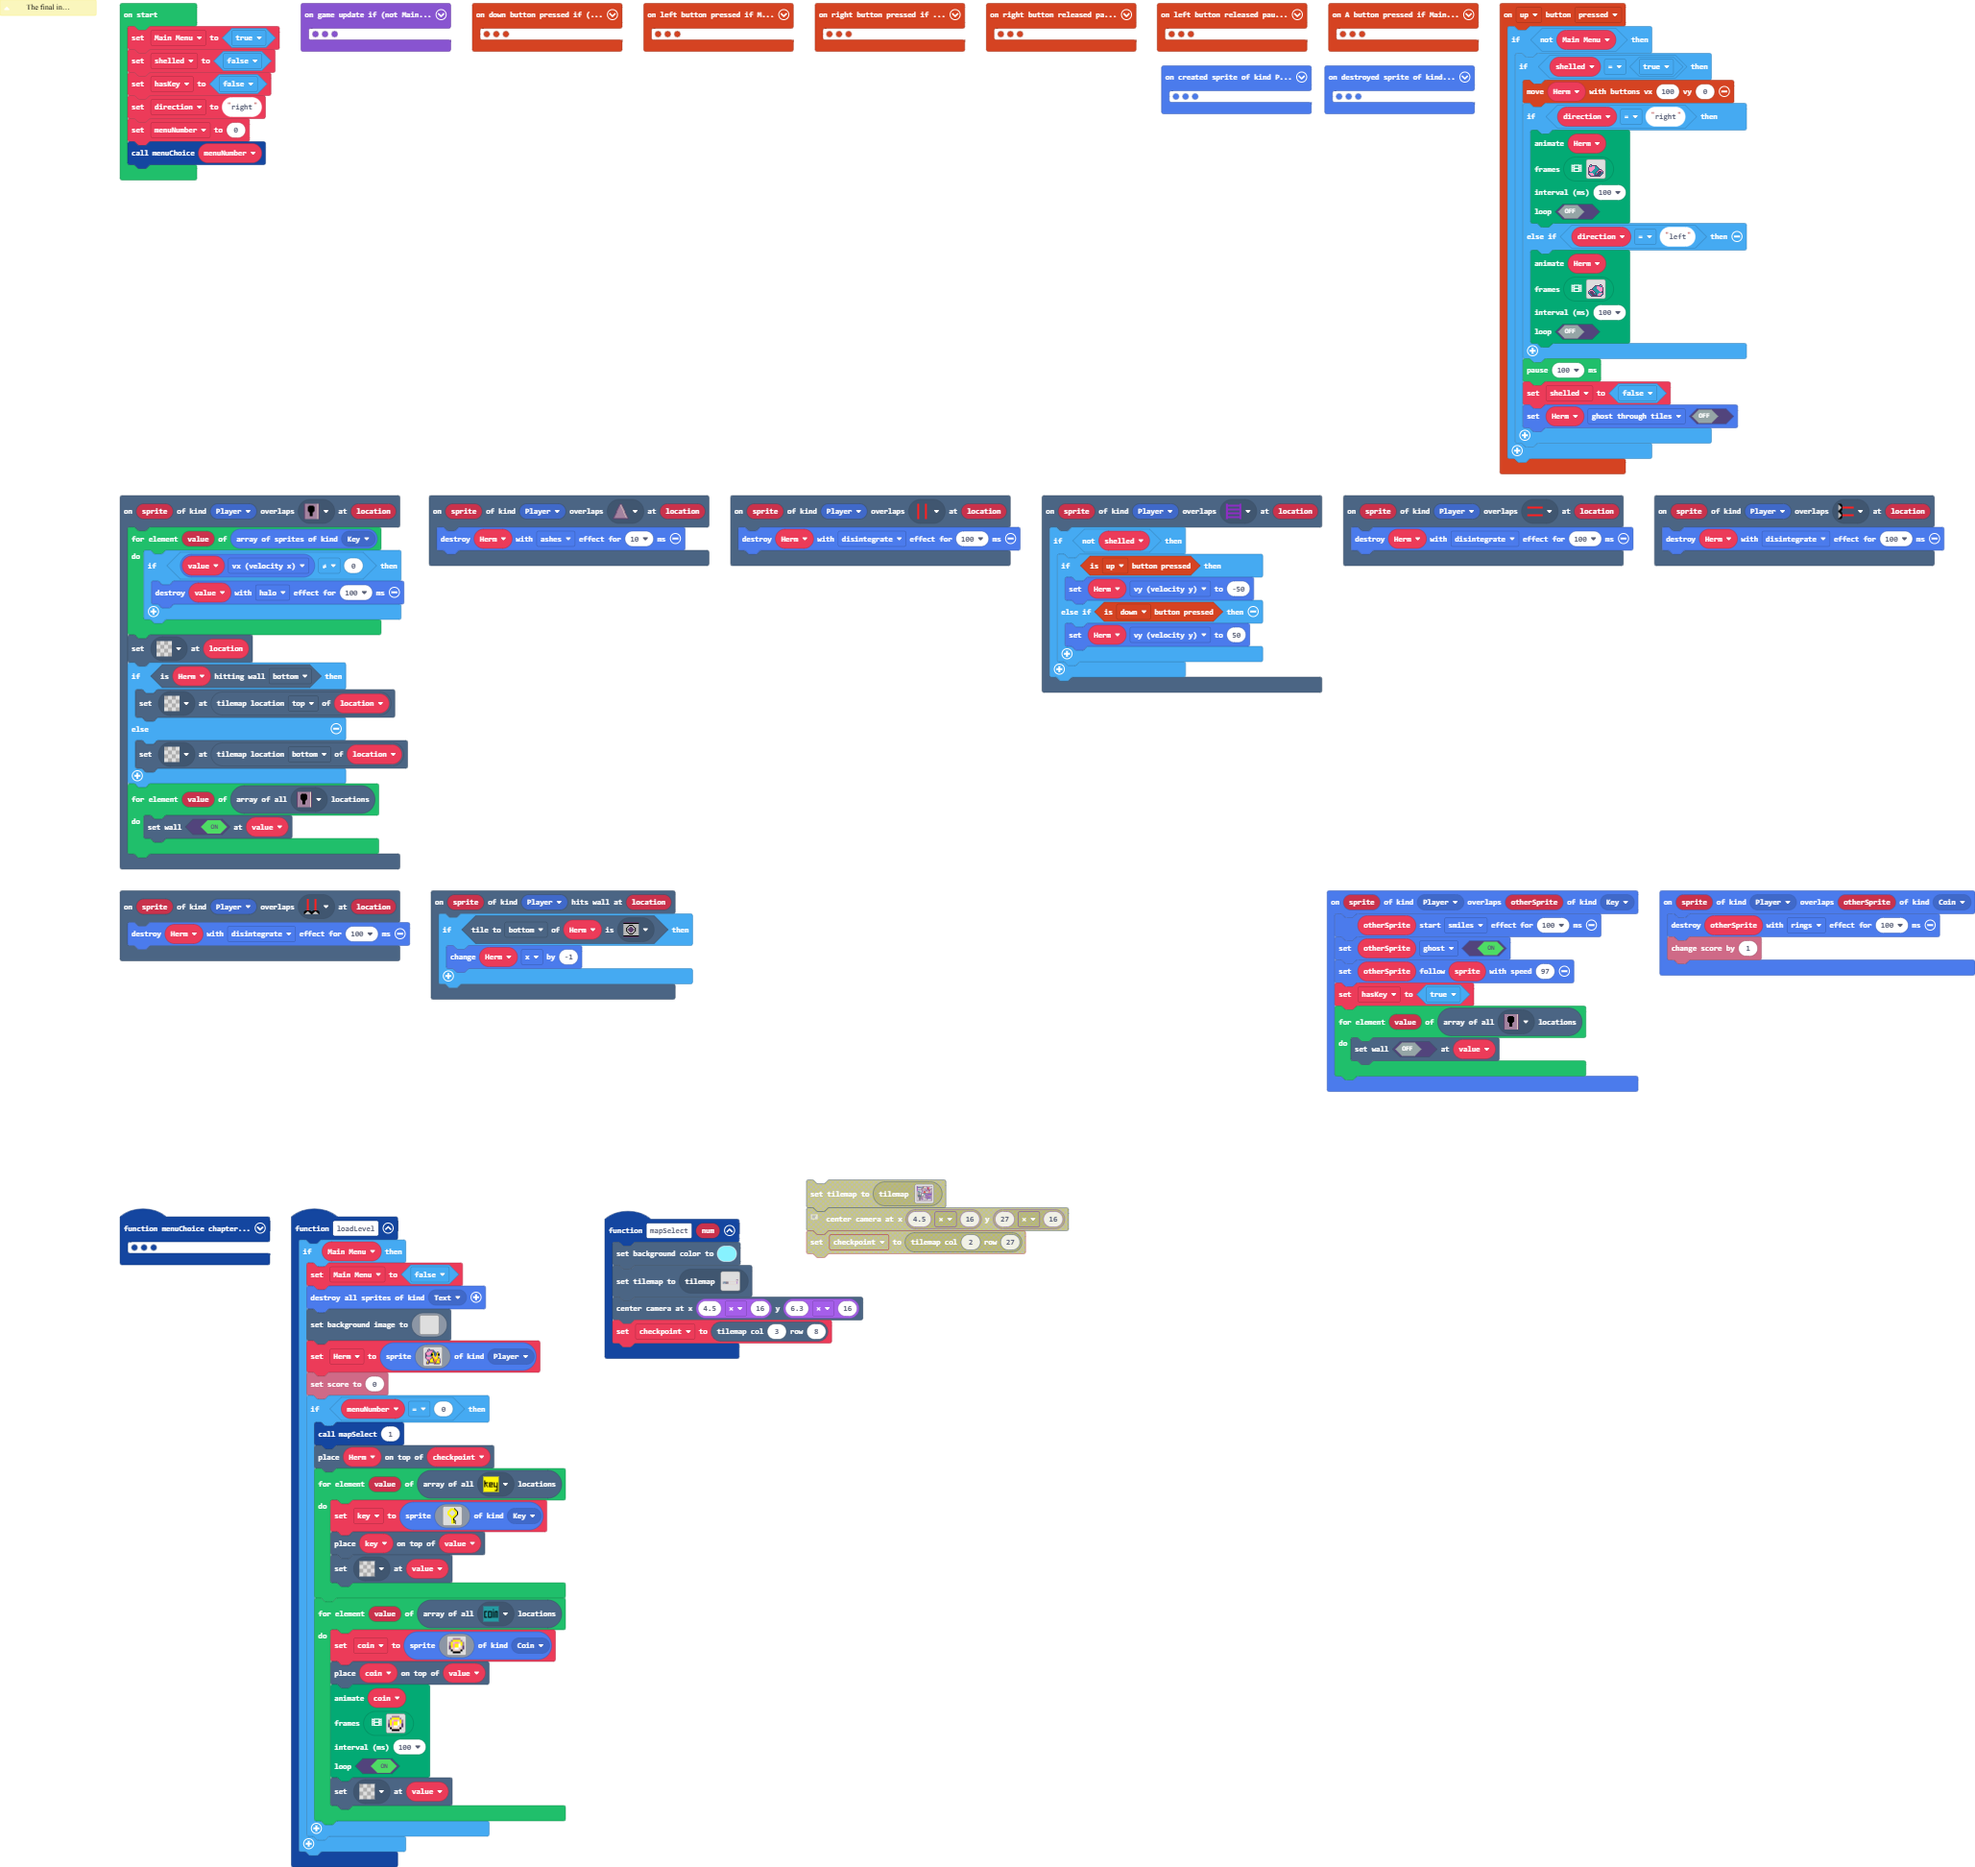
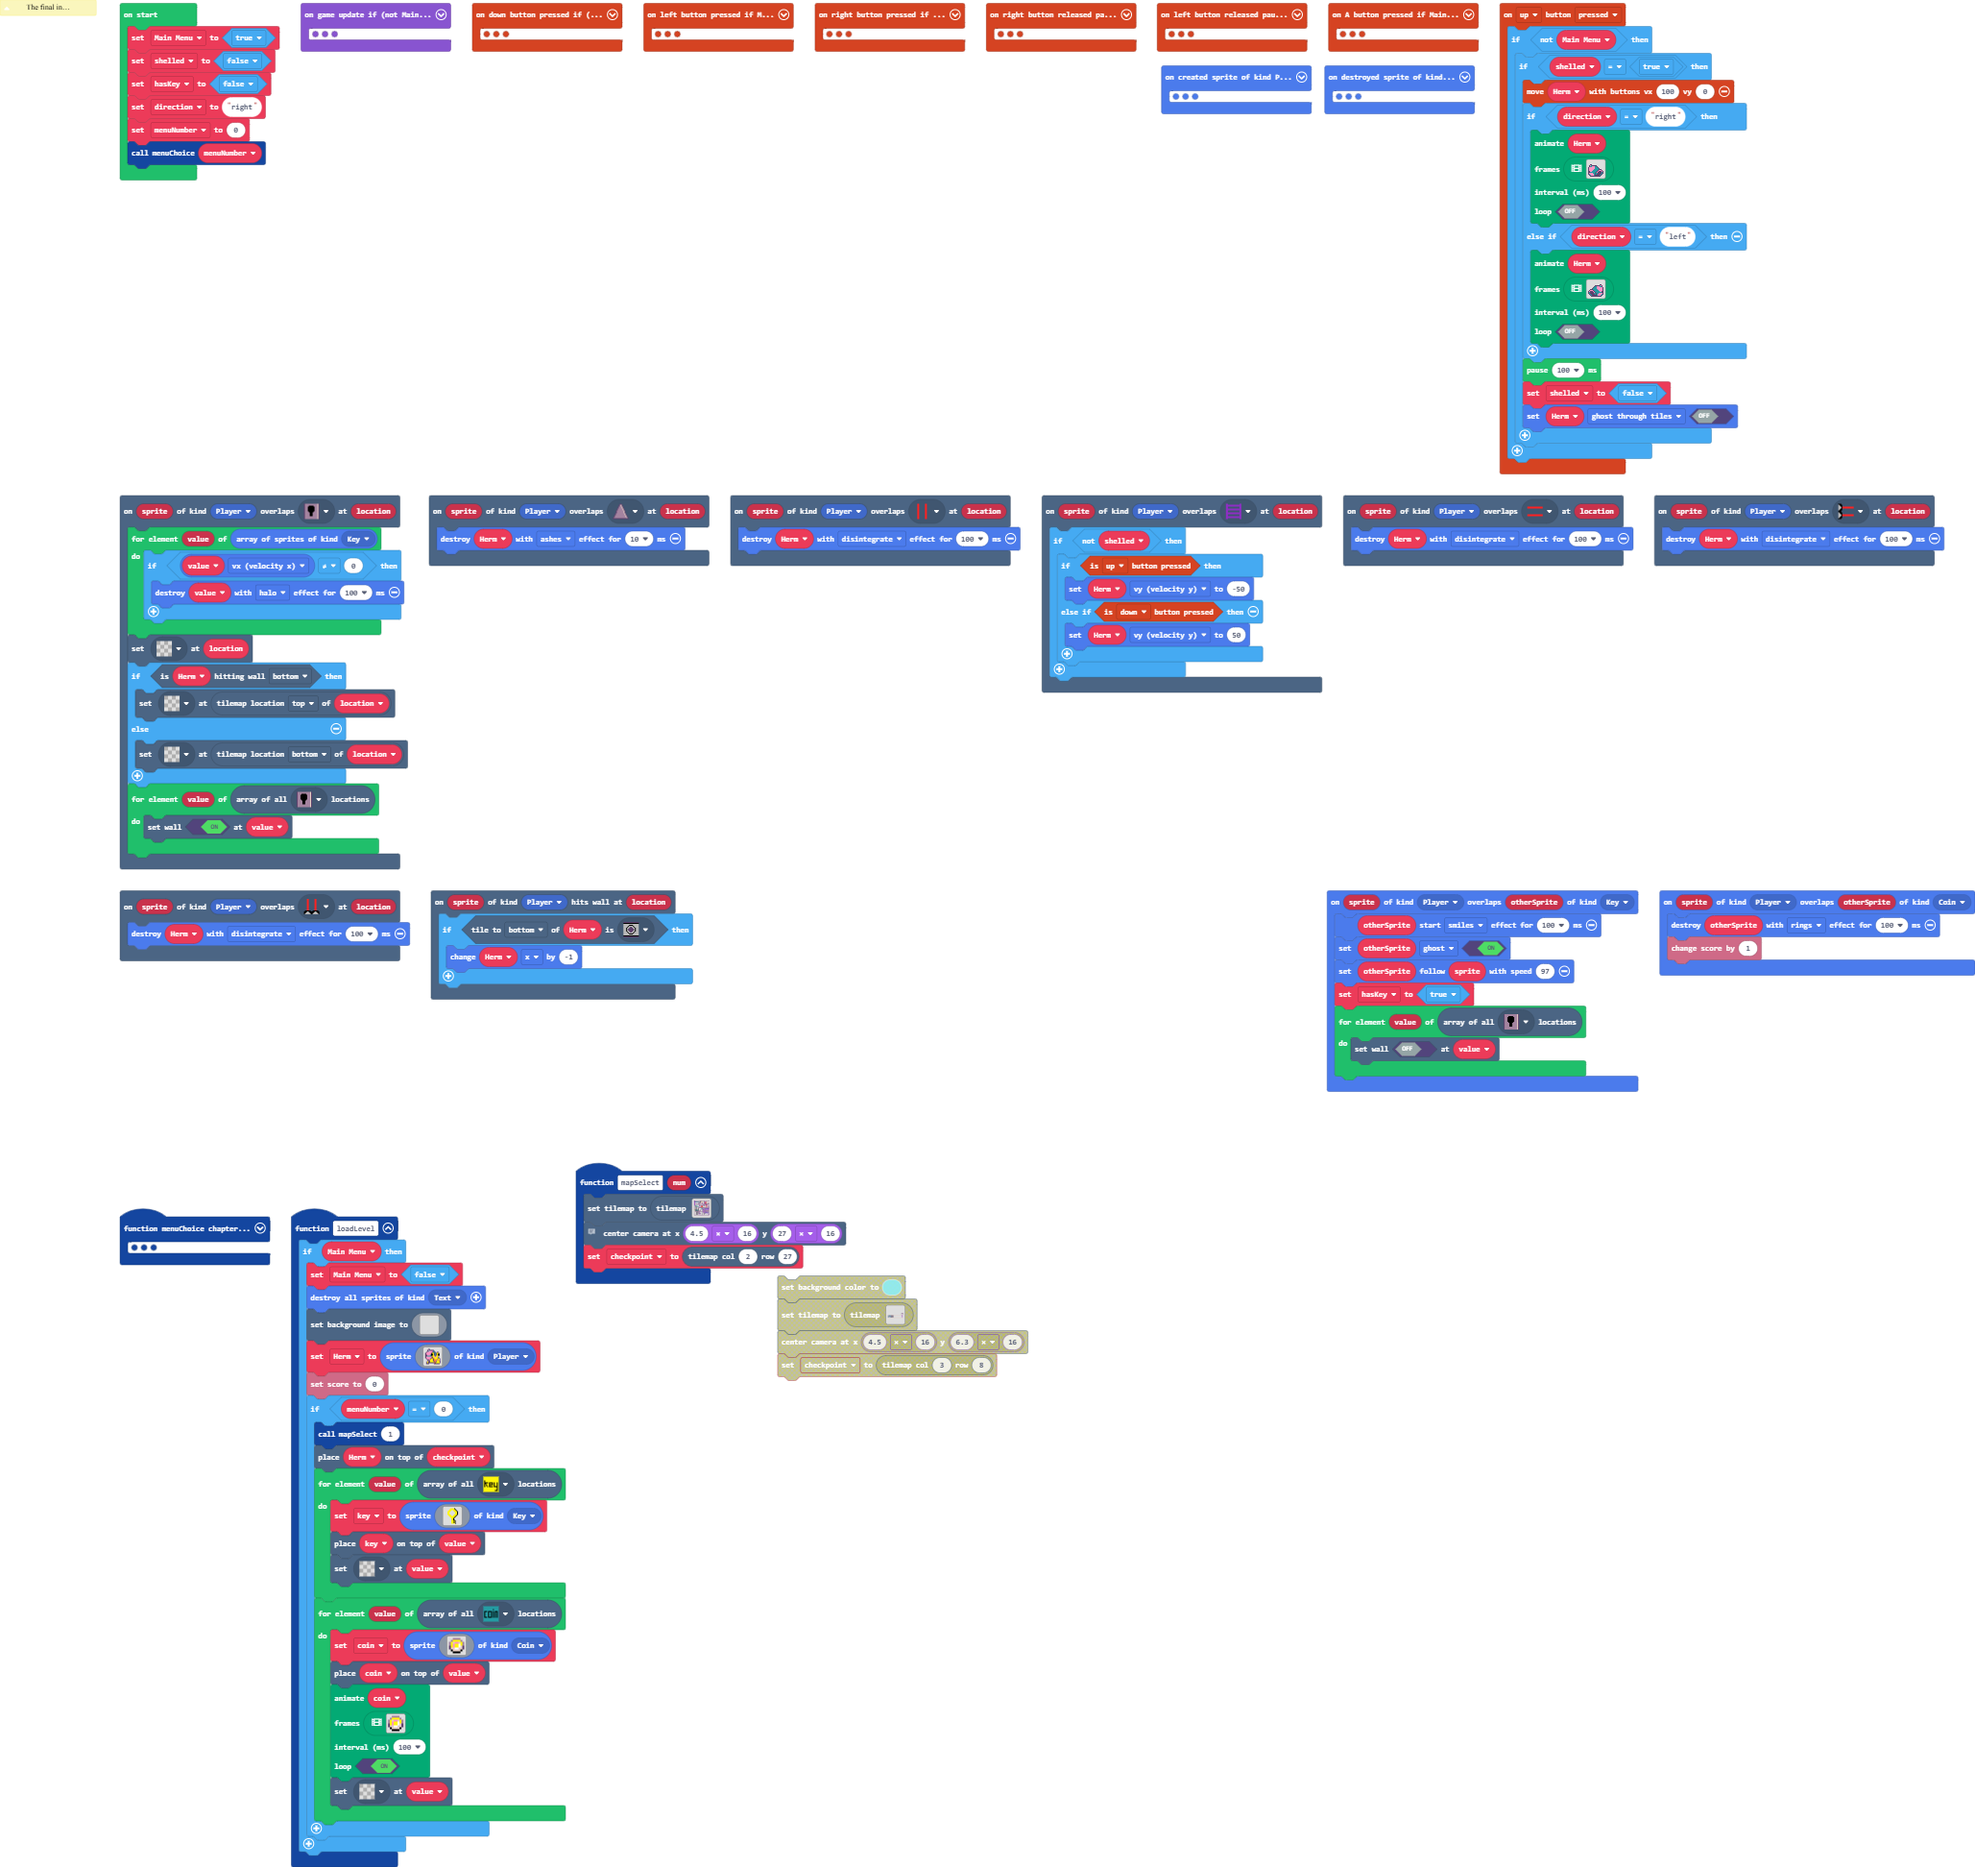
Update pxt.json, main.blocks, main.ts

Changed region(s): [[0.28, 0.6173, 0.56, 0.7407]]

diff --git a/main.ts b/main.ts
@@ -1137,10 +1137,10 @@ controller.down.onEvent(ControllerButtonEvent.Pressed, function () {
     }
 })
 function mapSelect (num: number) {
-    scene.setBackgroundColor(9)
-    tiles.setCurrentTilemap(tilemap`level6`)
-    scene.centerCameraAt(4.5 * 16, 6.3 * 16)
-    checkpoint = tiles.getTileLocation(3, 8)
+    tiles.setCurrentTilemap(tilemap`level2`)
+    // column at half of the room, same row as Herm.
+    scene.centerCameraAt(4.5 * 16, 27 * 16)
+    checkpoint = tiles.getTileLocation(2, 27)
 }
 scene.onOverlapTile(SpriteKind.Player, assets.tile`myTile14`, function (sprite, location) {
     sprites.destroy(Herm, effects.disintegrate, 100)
